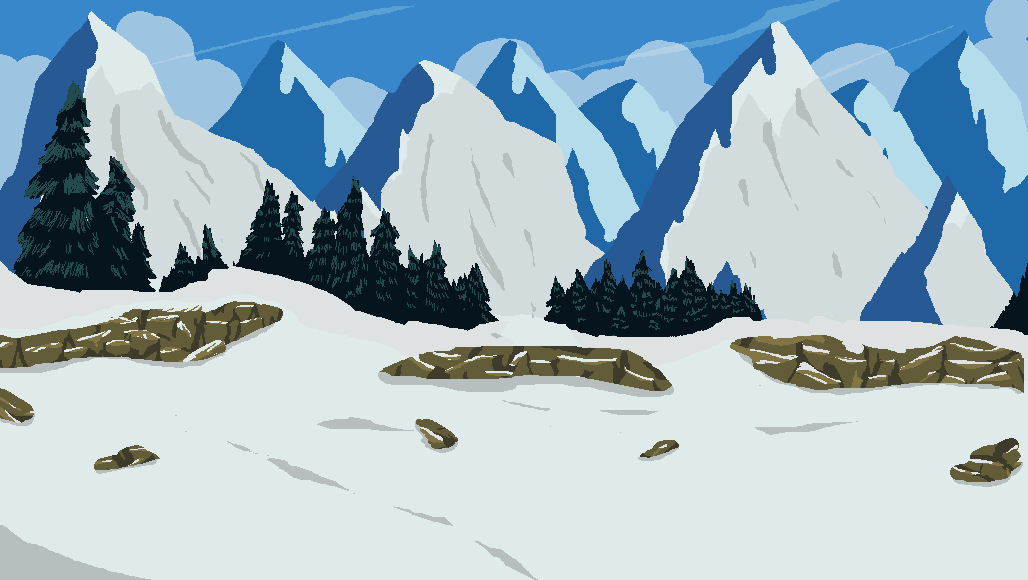
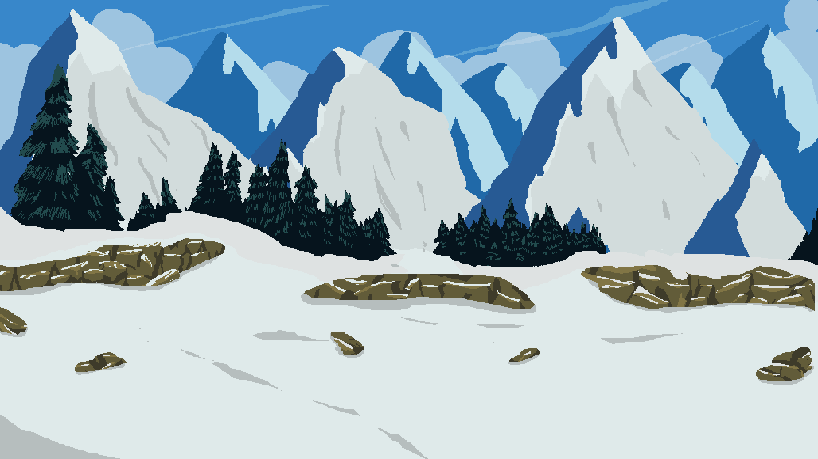
- updated battle scene UI and background - updated build

diff --git a/Assets/Scripts/ReactController.cs b/Assets/Scripts/ReactController.cs
@@ -310,6 +310,7 @@ public class ReactController : MonoSingleton<ReactController>
         Inventory inv = player.GetComponent<Inventory>();
         foreach (uint key in items.Keys)
         {
+            Debug.Log("REACT GIVE ITEMS METHOD, obtaining item key: " + key);
             var itemDefinition =
                 InventorySystemManager.GetItemDefinition(key);
             inv.AddItem(itemDefinition, items[key]);

diff --git a/Assets/Scripts/BattleSystem.cs b/Assets/Scripts/BattleSystem.cs
@@ -56,7 +56,7 @@ public class BattleSystem : MonoBehaviour
     // public DisplayPanel mainMenuPanel;
     // public DisplayPanel spellMenuPanel;
 
-    public Image backgroundImage;
+    public SpriteRenderer backgroundImage;
 
     public Transform damageObjectPrefab;
 
